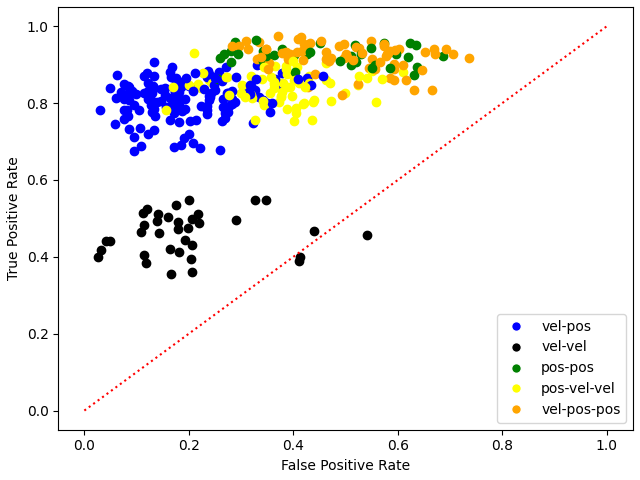
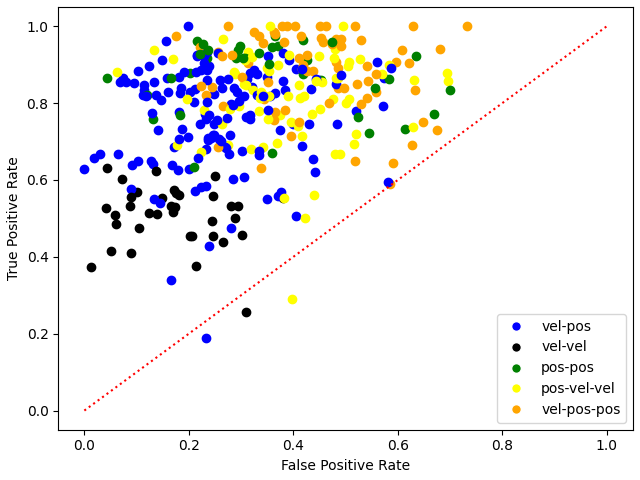
-

diff --git a/run_full_network.py b/run_full_network.py
@@ -7,7 +7,7 @@ from class_hair_field import HairField
 from plots import *
 from functions import *
 
-N_simulations = 15
+N_simulations = 2
 w_pos = [14e-3, 0, 12e-3, 10e-3, 7.5e-3]
 w_vel = [12e-3, 14.5e-3, 0, 11e-3, 12e-3]
 _, synapse_type, weights_primitive, primitive_filter_2, primitive_filter = get_encoding(w_pos, w_vel)
@@ -20,7 +20,7 @@ for k in tqdm(range(N_simulations), desc='Network progress'):
     joint_angles = np.array(data[f'simulation_{k}'][0]).T
 
     parameters = Parameters(max_joint_angle=np.amax(joint_angles, axis=0), min_joint_angle=np.amin(joint_angles, axis=0),
-                            n_hairs=20, t_total=20, dt=0.001, n_angles=18)
+                            n_hairs=20, t_total=6, dt=0.001, n_angles=18)
     parameters.primitive['w'] = weights_primitive
 
     N_frames = parameters.general['N_frames']
@@ -68,7 +68,6 @@ pickle_save(joint_angles_list, 'Data/joint_angles_list')
 pickle_save(position_list, 'Data/position_list')
 pickle_save(velocity_list, 'Data/velocity_list')
 
-
 '''
 Position neuron testing
 '''
@@ -113,6 +112,32 @@ plt.scatter(time, joint_angles[:, 0]*spike_velocity[:, 0], color='blue')
 plt.scatter(time, joint_angles[:, 0]*spike_velocity[:, 1], color='red')
 
 plot_movement_interneuron_network(ax, fig)
+
+TP, FP, TN, FN = [], [], [], []
+for i in range(len(joint_angles_list)):
+    spike_velocity, joint_angles = velocity_list[i], joint_angles_list[i]
+    joint_velocity = np.diff(joint_angles, axis=0)
+
+    intersect_up = joint_velocity * spike_velocity[1:, 1::2]
+    intersect_down = joint_velocity * spike_velocity[1:, 0::2]
+    TP.append(intersect_up[intersect_up > 0].size)
+    FP.append(intersect_up[intersect_up < 0].size)
+    TN.append(intersect_down[intersect_down < 0].size)
+    FN.append(intersect_down[intersect_down > 0].size)
+
+TP, FP, TN, FN = sum(TP), sum(FP), sum(TN), sum(FN)
+ACC = np.around((TP + TN) / (TP + TN + FP + FN), 3)
+TPR = np.around(TP/(TP + FN), 3)
+TNR = np.around(TN/(TN + FP), 3)
+
+print(f'[Velocity interneuron] True positive: {TP}, false Positive: {FP}, true negative: {TN}, false negative: {FN}')
+print(f'[Velocity interneuron] Accuracy: {ACC}, true positive rate: {TPR}, true negative rate: {TNR}')
+
+table = {'col1': [TP, FP, TN, FN, ACC, TPR, TNR]}
+df = pd.DataFrame(data=table, index=['TP', 'FP', 'TN', 'FN', 'ACC', 'TPR', 'TNR'])
+df.to_csv("Images/velocity_table.csv")
+
+print(f'[Velocity interneuron] Data written to "velocity_table.csv"')
 
 '''
 Primitive neuron testing (ROC plot)
@@ -159,10 +184,21 @@ true_pos_sum = np.sum(true_positive, axis=0)
 false_pos_sum = np.sum(false_positive, axis=0)
 true_neg_sum = np.sum(true_negative, axis=0)
 false_neg_sum = np.sum(false_negative, axis=0)
+accuracy, accuracy_types = np.array([]), np.zeros([5])
+N_types = np.bincount(synapse_type)
 
 for i in range(360):
     plt.scatter(false_pos_sum[i]/(false_pos_sum[i] + true_neg_sum[i] + 0.0000001),
                 true_pos_sum[i]/(true_pos_sum[i] + false_neg_sum[i] + 0.0000001), color=colors[synapse_type[i]])
+    ACC = (true_pos_sum[i] + true_neg_sum[i])/(true_pos_sum[i] + true_neg_sum[i] + false_pos_sum[i] + false_neg_sum[i] + 0.0000001)
+    accuracy = np.append(accuracy, ACC)
+    accuracy_types[synapse_type[i]] += ACC/N_types[synapse_type[i]]
+
+accuracy_mean = np.mean(accuracy)
+
+print(f'[Primitive neuron] Mean accuracy of primitive neurons: {accuracy_mean}')
+print(f'[Primitive neuron] and of type vel-pos: {np.around(accuracy_types[0], 3)}, vel-vel: {np.around(accuracy_types[1], 3)}, pos-pos: '
+      f'{np.around(accuracy_types[2], 3)}, pos-vel-vel: {np.around(accuracy_types[3], 3)}, vel-pos-pos: {np.around(accuracy_types[4], 3)}.')
 
 plt.plot([0, 1], [0, 1], color='red', linestyle='dotted')
 plot_primitive_ROC(ax, fig)

diff --git a/run_single_hair.py b/run_single_hair.py
@@ -2,8 +2,8 @@ from dictionaries import Parameters
 from class_sensory_neuron import AdEx
 from plots import *
 from functions import *
-import seaborn as sns
 import pandas as pd
+
 
 class RampGenerator:
     def __init__(self, parameters_ramp, device=None):
@@ -36,14 +36,14 @@ v_var, v_stat = np.array([24, 47, 88, 151, 245]), 47
 max_angle_var, max_angle_stat = np.array([15, 23, 34, 46, 60]), 37
 parameters = Parameters(max_joint_angle=1, min_joint_angle=1, n_hairs=1, t_total=10, dt=0.0001, n_angles=1)
 parameters.sensory['n'] = 5
-
 t_total = 10
 colors = ['green', 'yellow', 'blue', 'black', 'red']
 spike_rates, spike_rates_list = [], []
 times, times_list = [], []
-Vr_list = np.linspace(-70, -50, num=5)*1E-3
-b_list = np.linspace(1e-12, 26e-12, num=5)
+Vr_list = np.linspace(-80, -60, num=11, dtype=int)*1E-3
+b_list = np.linspace(1, 22, num=11, dtype=int)*1e-12
 MSE = np.zeros((Vr_list.size, b_list.size))
+
 for l in tqdm(range(Vr_list.size)):
     for m in range(b_list.size):
         for [v, max_angle] in [[v_var, max_angle_stat], [v_stat, max_angle_var]]:
@@ -95,11 +95,10 @@ for l in tqdm(range(Vr_list.size)):
             spike_rates, times = [], []
 
 
-MSE = MSE/(real_values.size)
+MSE = MSE/real_values.size
 MSE_flat = np.ndarray.flatten(MSE)
 indexes, index_flat = np.where(MSE == np.min(MSE)), np.where(MSE_flat == np.min(MSE_flat))
 Vr_opt, b_opt = Vr_list[indexes[0]], b_list[indexes[1]]
-print(f'Optimum Vr {Vr_opt}, Optimum b: {b_opt}')
 spike_rates = spike_rates_list[index_flat[0][0]*2+1]
 times = times_list[index_flat[0][0]*2+1]
 
@@ -109,15 +108,12 @@ plot_single_hair(plt.gca(), v_stat)
 
 spike_rates = spike_rates_list[index_flat[0][0]*2]
 times = times_list[index_flat[0][0]*2]
+
 for i in range(len(spike_rates)):
     plt.plot(times[i], spike_rates[i])
 plot_single_hair(plt.gca(), v_var)
 
-df = pd.DataFrame(MSE.astype(int), columns=Vr_list, index=b_list)
+df = pd.DataFrame(MSE.astype(int), columns=np.around(b_list, 15), index=np.around(Vr_list, 5))
+plot_heat_map(df)
 
-
-heatmap = sns.heatmap(data=df, annot=True, fmt='.3g', cbar_kws={'label': 'mean absolute error (MAE)'})
-heatmap.set(xlabel='V_R', ylabel='b')
-
-plt.show()
-
+print(f'[Single hair] Optimum Vr {Vr_opt}, Optimum b: {b_opt}')

diff --git a/Test_3.py b/Test_3.py
@@ -1,0 +1,38 @@
+from functions import *
+from dictionaries import Parameters
+import pandas as pd
+
+
+
+
+data = pickle_open('Data/simulation_data')
+velocity_list = pickle_open('Data/velocity_list')
+joint_angles_list = pickle_open('Data/joint_angles_list')
+parameters = Parameters(t_total=20, dt=0.001)
+
+
+TP, FP, TN, FN = [], [], [], []
+for i in range(len(joint_angles_list)):
+    spike_velocity, joint_angles = velocity_list[i], joint_angles_list[i]
+    joint_velocity = np.diff(joint_angles, axis=0)
+
+    intersect_up = joint_velocity * spike_velocity[1:, 1::2]
+    intersect_down = joint_velocity * spike_velocity[1:, 0::2]
+    TP.append(intersect_up[intersect_up > 0].size)
+    FP.append(intersect_up[intersect_up < 0].size)
+    TN.append(intersect_down[intersect_down < 0].size)
+    FN.append(intersect_down[intersect_down > 0].size)
+
+TP, FP, TN, FN = sum(TP), sum(FP), sum(TN), sum(FN)
+ACC = np.around((TP + TN) / (TP + TN + FP + FN), 3)
+TPR = np.around(TP/(TP + FN), 3)
+TNR = np.around(TN/(TN + FP), 3)
+
+print(f'[Velocity Interneuron] true positive: {TP}, false Positive: {FP}, true negative: {TN}, false negative: {FN}')
+print(f'[Velocity Interneuron] Accuracy: {ACC}, true positive rate: {TPR}, true negative rate: {TNR}')
+
+table = {'col1': [TP, FP, TN, FN, ACC, TPR, TNR]}
+df = pd.DataFrame(data=table, index=['TP', 'FP', 'TN', 'FN', 'ACC', 'TPR', 'TNR'])
+df.to_csv("Images/velocity_table.csv")
+
+print(f'[Velocity Interneuron] Data written to "velocity_table.csv"')

diff --git a/plots.py b/plots.py
@@ -2,6 +2,7 @@ import matplotlib.pyplot as plt
 import os
 import numpy as np
 from matplotlib.lines import Line2D
+import seaborn as sns
 
 if not os.path.exists("Images"):
     os.makedirs("Images")
@@ -19,16 +20,25 @@ def plot_single_hair(ax, v):
 
     if isinstance(v, int):
         ax.legend(['15°', '23°', '34°', '46°', '60°'])
+        ax.set_yticks([0, 40, 80, 120, 160, 200, 240, 280])
         fig.tight_layout(pad=0.5)
         fig.savefig('Images/angle.png')
     else:
         ax.legend(['24 °/s', '47 °/s', '88 °/s', '151 °/s', '245 °/s'])
+        ax.set_yticks([0, 40, 80, 120, 160])
         fig.tight_layout(pad=0.5)
         fig.savefig('Images/angular_velocity.png')
 
     fig.clear()
 
     return
+
+
+def plot_heat_map(df):
+    heatmap = sns.heatmap(data=df, annot=True, fmt='.3g', cbar_kws={'label': 'mean absolute error (MAE)'})
+    heatmap.set(xlabel='b', ylabel='V_r')
+    plt.tight_layout(pad=0.5)
+    plt.savefig('Images/heat_map')
 
 
 def plot_hair_field(ax, name):
@@ -126,3 +136,6 @@ def plot_psth(ax, fig, neuron, leg):
     ax.set_xticks([])
     fig.savefig(f'Images_PSTH/neuron_{neuron}_leg_{leg}')
     plt.cla()
+
+
+

diff --git a/dictionaries.py b/dictionaries.py
@@ -10,7 +10,7 @@ class Parameters:
                            'max_joint_angle': max_joint_angle, 'max_angle': 90, 'overlap': 0, 'overlap_bi': 0}
 
         self.sensory = {'C': 200e-12, 'g_L': 2e-9, 'E_L': -70e-3, 'DeltaT': 2e-3, 'a': 2e-9, 'V_T': -50e-3,
-                        'tau_W': 600e-3, 'b': 60e-12, 'V_R': -58e-3, 'V_cut': -40e-3, 'refrac': 0.00,
+                        'tau_W': 600e-3, 'b': 7e-12, 'V_R': -70e-3, 'V_cut': -40e-3, 'refrac': 0.00,
                         'n': 2 * n_hairs * n_angles, 'dt': dt}
 
         self.position = {'E_L': -70e-3, 'V_T': -50e-3, 'tau': 80e-3, 'tau_W': 5e-3, 'tau_epsp': 6e-3, 'b': 20e-3,

diff --git a/file_importer.py b/file_importer.py
@@ -8,12 +8,12 @@ else:
     path = "/home/s3488926/Documents/master_project/drive/Kinematic_Data"
     print("Linux path used")
 
-t_total = 20
+t_total = 10
 N_frames = 200*t_total
 data = {}
 i = 0
 legs = ['R1', 'R2', 'R3', 'L1', 'L2', 'L3']
-steps = '_48_'
+steps = '_00_'
 
 animals_list = os.listdir(path)
 for animal in animals_list:

diff --git a/functions.py b/functions.py
@@ -6,6 +6,7 @@ import itertools
 import scipy.ndimage as img
 import matplotlib.pyplot as plt
 import os
+import pandas as pd
 
 
 def pickle_save(file, name):
